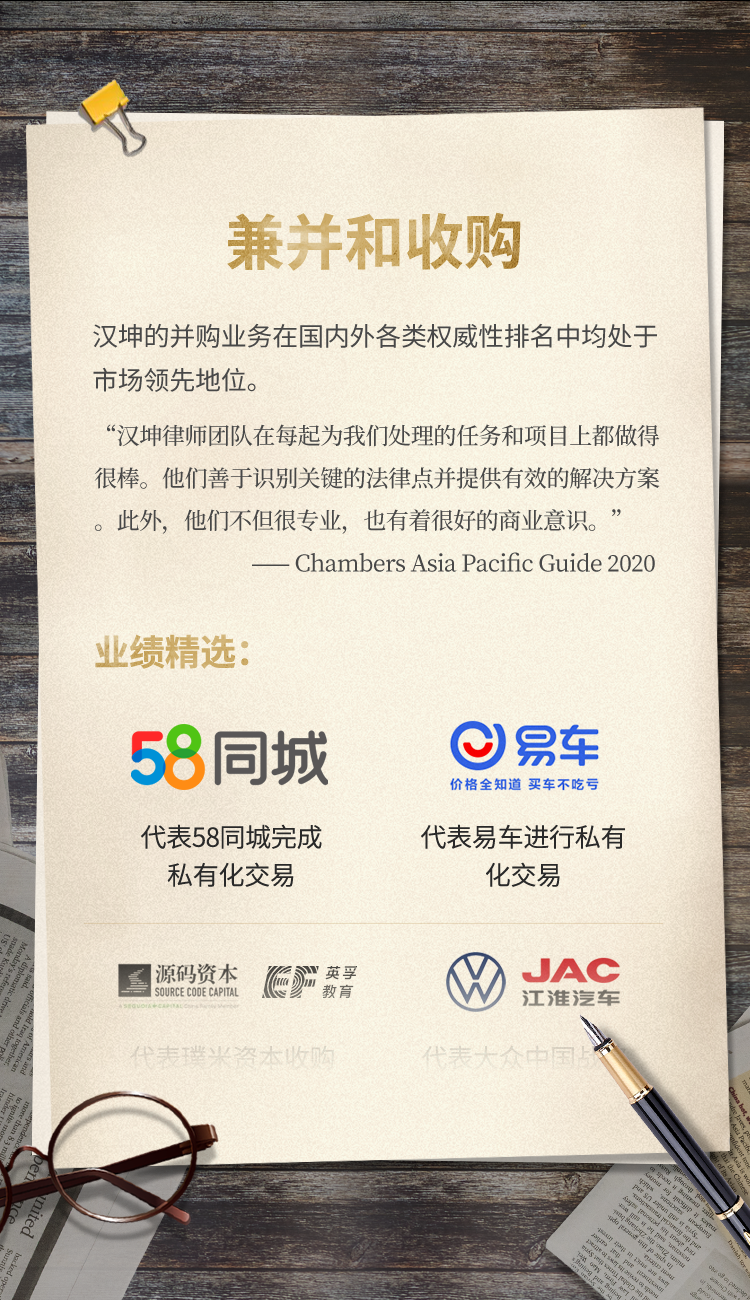
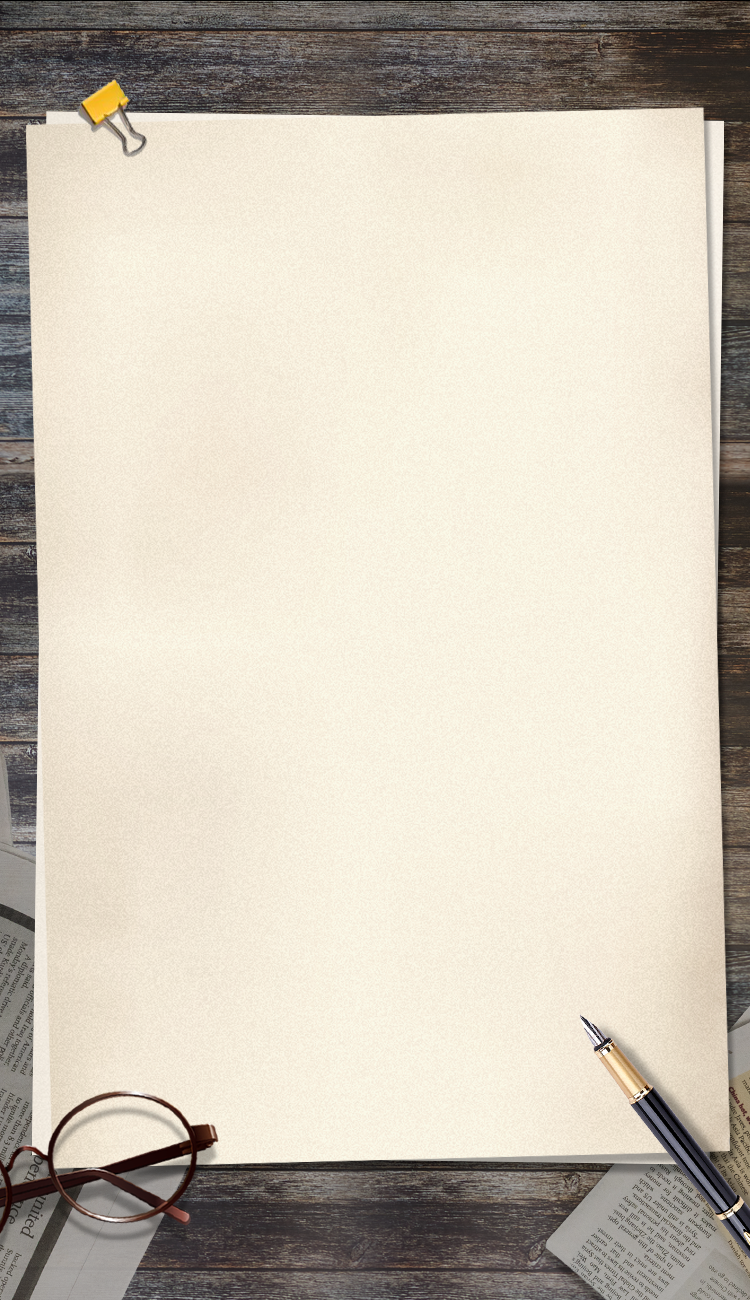
资本市场

diff --git a/src/views/zbsc.vue b/src/views/zbsc.vue
@@ -6,9 +6,20 @@
 				<swiper-slide><img src="../assets/zbsc/book-2.png" /></swiper-slide>
 				<swiper-slide><img src="../assets/zbsc/book-3.png" /></swiper-slide>
 			</swiper>
-			<div class="footer">
-				<img src="../assets/zbsc/foot-text.png" class="footText" />
-			</div>
+			<div class="footerText"><img src="../assets/zbsc/foot-text.png" /></div>
+			<div class="footerBack"><img src="../assets/back-btn.png" @click="goBack" /></div>
+		</div>
+		<!-- 第二阶段 -->
+		<div class="step2-bg" v-show="showBook == 1">
+			<img src="../assets/zbsc/step2-coffee.png" class="step-coffee">
+			<img src="../assets/zbsc/step2-bq.png" class="step-bq">
+			<img src="../assets/zbsc/step2-text-1.png" class="step-text-1">
+			<img src="../assets/zbsc/step2-xinfeng.png" class="step-xinfeng">
+		</div>
+		<!-- 第三阶段 -->
+		<div class="step3-bg" v-show="showBook == 2">
+			<img src="../assets/zbsc/step3-text-1.png" class="step-text">
+			<div class="footerBack"><img src="../assets/back-btn.png" @click="goBack2" /></div>
 		</div>
 	</div>
 </template>
@@ -36,14 +47,17 @@ export default {
 				},
 				slidesPerView: 1.5,
 				centeredSlides: true,
-				loop: true,
+				loop: true
 			}
 		};
 	},
 	created() {},
 	methods: {
 		goBack() {
-			this.$router.push('/menu');
+			this.$router.push('/hkly');
+		},
+		goBack2() {
+			this.showBook = 0;
 		},
 		goMenu() {
 			this.showBook = 0;
@@ -53,11 +67,11 @@ export default {
 		},
 		openBook(num) {
 			this.showBook = 1;
-			this.bookNumber = this.bookContent.length - 1;
+			// this.bookNumber = this.bookContent.length - 1;
 			var that = this;
 			setTimeout(function() {
-				that.bookNumber = num;
-			}, 50);
+				that.showBook = 2;
+			}, 500);
 		}
 	},
 	computed: {}
@@ -81,7 +95,7 @@ img {
 		// width: 100%;
 		display: block;
 		.scale(750, 533);
-		margin-top: 420/@r;
+		margin-top: 420 / @r;
 		/deep/ .swiper-slide {
 			/* Center slide text vertically */
 			// box-shadow: 0 0px 40px rgba(0, 0, 0, 0.1);
@@ -107,14 +121,75 @@ img {
 			}
 		}
 	}
-	.footer {
-		margin: 50/@r auto 0;
+	.footerText {
+		margin: 50 / @r auto 0;
 		width: 236 / @r;
 		height: 28 / @r;
 		// width: 178/@r;
 		img {
 			width: 100%;
 			height: 100%;
+		}
+	}
+	.footerBack {
+		position: absolute;
+		bottom: 60 / @r;
+		left: 50%;
+		transform: translateX(-50%);
+		width: 175 / @r;
+		height: 35 / @r;
+		// width: 178/@r;
+		img {
+			width: 100%;
+			height: 100%;
+		}
+	}
+	.step2-bg {
+		.scale(750, 1300);
+		.pos-center;
+		position: relative !important;
+		background-image: url('../assets/zbsc/step2-bg.png');
+		background-size: 100% auto;
+		background-repeat: no-repeat;
+		background-position: center;
+		.step-coffee {
+			position: absolute;
+			.scale(320,347);
+			top:4/@r;left:0;
+			z-index: 10;
+		}
+		.step-bq {
+			position: absolute;
+			.scale(317,345);
+			top:87/@r;left:448/@r;
+			z-index: 9;
+		}
+		.step-xinfeng {
+			position: absolute;
+			.scale(784,1084);
+			top:162/@r;left:-19/@r;
+			z-index: 1;
+		}
+		.step-text-1 {
+			position: absolute;
+			.scale(683,733);
+			top:389/@r;left:43/@r;
+			z-index: 5;
+		}
+	}
+	.step3-bg {
+		.scale(750, 1300);
+		.pos-center;
+		position: relative !important;
+		background-image: url('../assets/zbsc/step3-bg.png');
+		background-size: 100% auto;
+		background-repeat: no-repeat;
+		background-position: center;
+		.step-text {
+			position: absolute;
+			.scale(537,853);
+			top:229/@r;left:118/@r;
+			z-index: 5;
 		}
 	}
 }

diff --git a/src/views/hkly.vue b/src/views/hkly.vue
@@ -3,7 +3,7 @@
 		<div v-show="!showBook">
 			<swiper :options="swiperOption" class="swiperBox">
 				<swiper-slide>
-					<img src="../assets/hkly/book-big.png" class="bigImg" />
+					<img src="../assets/hkly/book-big.png" class="bigImg" @click="jumpPage" />
 				</swiper-slide>
 				<swiper-slide>
 					<div class="bookBox">
@@ -40,6 +40,10 @@
 		</div>
 		<!-- 兼收和并购 -->
 		<div class="bookContentBg" v-show="showBook == 2">
+			<div class="bookBox">
+				<img src="../assets/hkly/book-content.png" alt="">
+			</div>
+			<!-- <div class="bottom"></div> -->
 			<div class="footer">
 				<img src="../assets/hkly/back-menu-btn.png" @click="goMenu"></span>
 			</div>
@@ -100,7 +104,9 @@ export default {
 	created() {
 	},
 	methods: {
-		
+		jumpPage() {
+			this.$router.push('zbsc')
+		},
 		goBack(){
 			this.$router.push('/menu')
 		},
@@ -183,6 +189,25 @@ img {
 		background-size: 100% auto;
 		background-repeat: no-repeat;
 		background-position: center;
+		.bookBox {
+			overflow-y: auto;
+			.scale(579,800);
+			position: absolute;
+			top:212/@r;left:50%;
+			transform: translateX(-50%);
+			img {
+				width:100%;
+				height:auto;
+			}
+		}
+		// .bottom {
+		// 	position: fixed;
+		// 	background: linear-gradient(to bottom,rgba(246, 239, 222, 0), rgba(246, 239, 222, 0.8));
+		// 	width:579/@r;height:80/@r;
+		// 	left: 50%;
+		// 	transform: translateX(-50%);
+		// 	bottom:280/@r;
+		// }
 		.footer{
 			position: absolute;
 			bottom: 60/@r;
